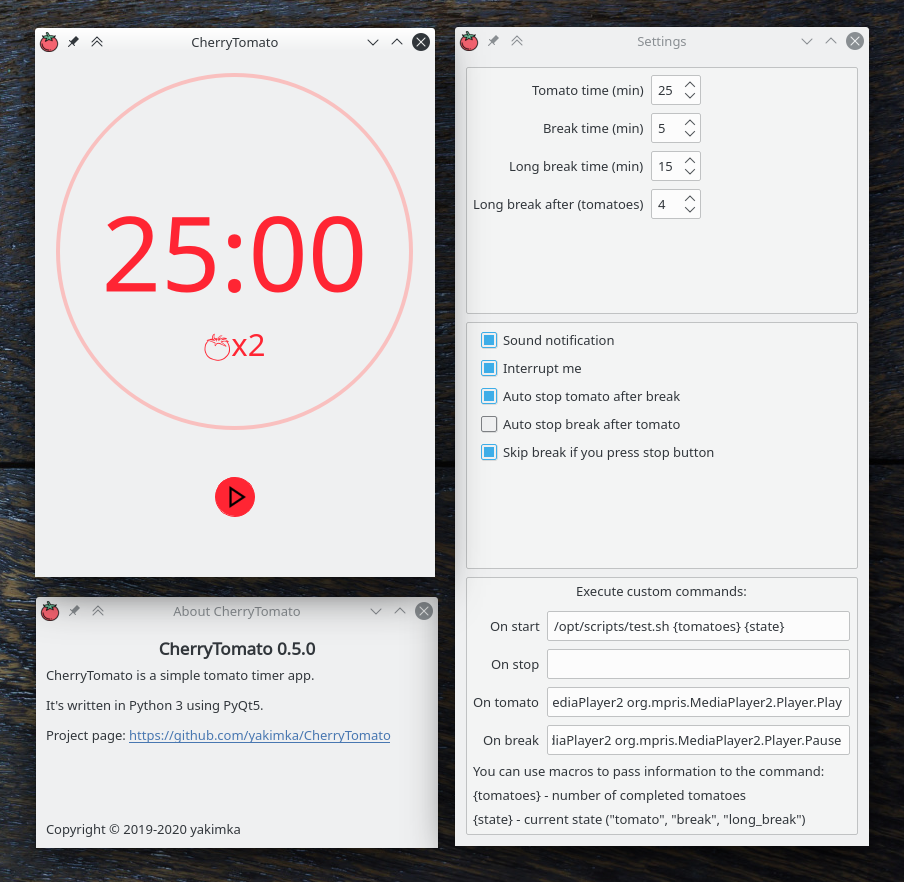
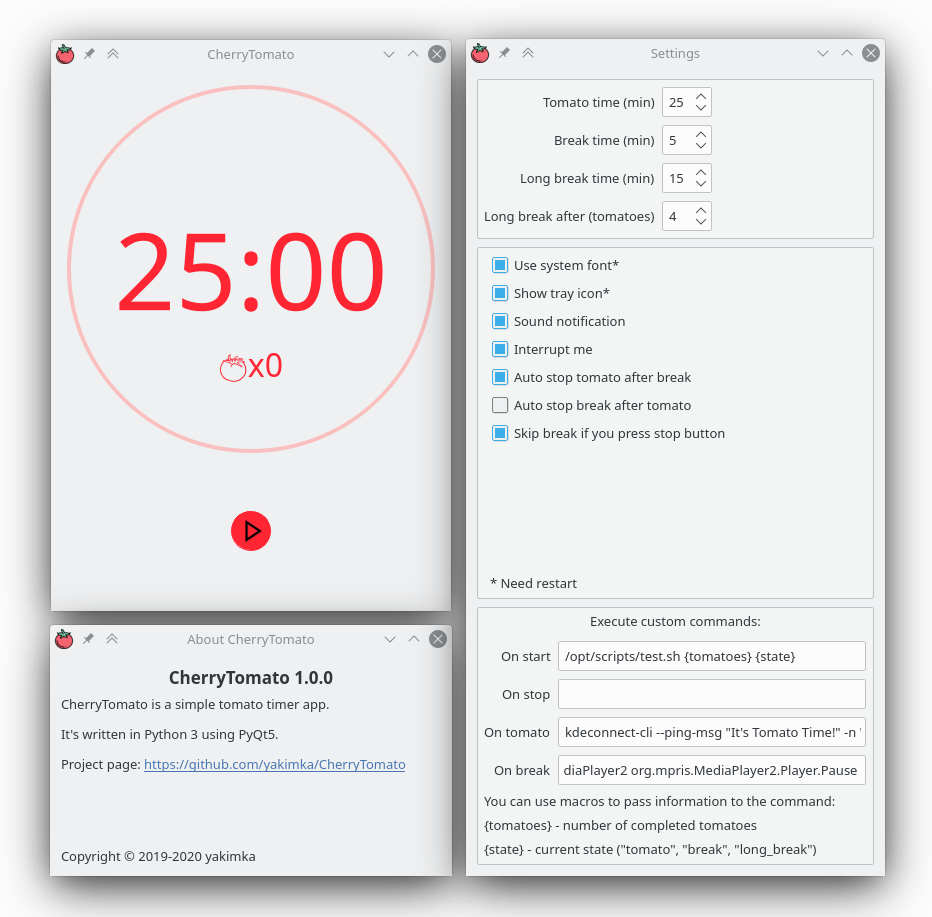
Prepare 1.0.0

diff --git a/CherryTomato/__init__.py b/CherryTomato/__init__.py
@@ -8,7 +8,7 @@ __author__ = 'yakimka'
 __maintainer__ = __author__
 __email__ = 'ss.yakim@gmail.com'
 __license__ = 'GPL-3.0'
-__version__ = '0.6.1'
+__version__ = '1.0.0'
 
 BASE_DIR = os.path.dirname(os.path.abspath(__file__))
 MEDIA_DIR = os.path.join(BASE_DIR, 'media')
